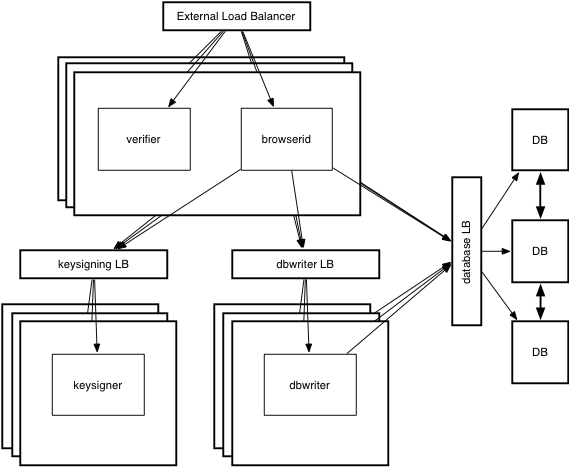
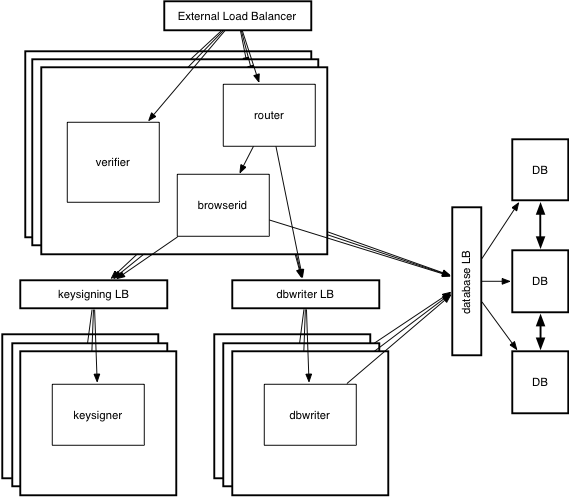
more docs

diff --git a/docs/PRODUCTION.md b/docs/PRODUCTION.md
@@ -19,6 +19,27 @@ A single Persona cluster looks like:
 
 ## Processes
 
+Persona is composed of a few different distinct processes:
+
+* *router* - the main entry point for all web requests, responsible for forwarding API requests appropriately. [QUESTION: should router be entry point for verifier? I don't think so... Maybe a separate router process?]
+
+* *static* - handles all static file requests, e.g. images, CSS, etc.
+
+* *webhead* - handles all read only API requests, forwarding when needed to dbwriter and certifier.
+
+* *dbwriter* - handles all API requests which require write access to the database.
+
+* *certifier* - handles certification of user keys.
+
+* *verifier* - handles verification of assertions.
+
+This process separation lets us scale optimally, by giving each function the ability to scale independently of the others. More importantly, it lets us do privilege separation:
+
+* only dbwriter has DB-write access.
+* only certifier has access to the private key.
+* dbwriter and certifier are not directly reachable from the public web.
+
+
 ## Hosts
 
 
